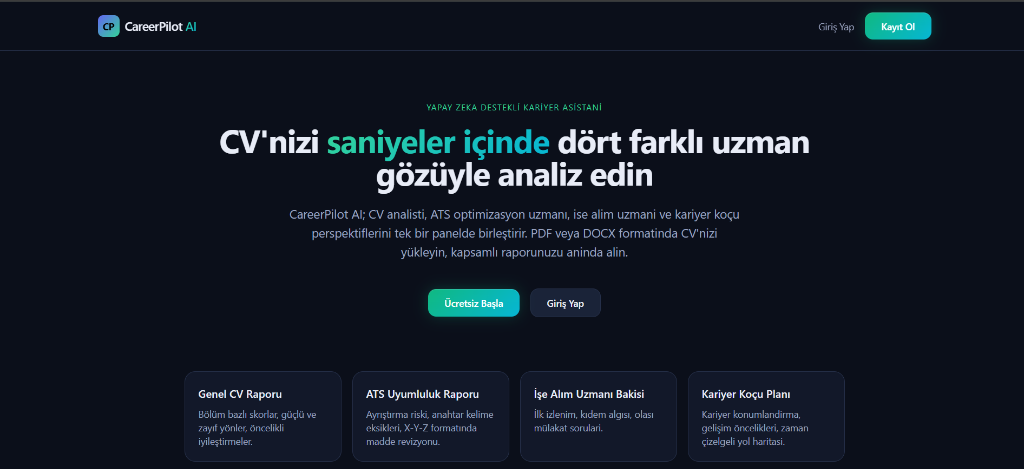
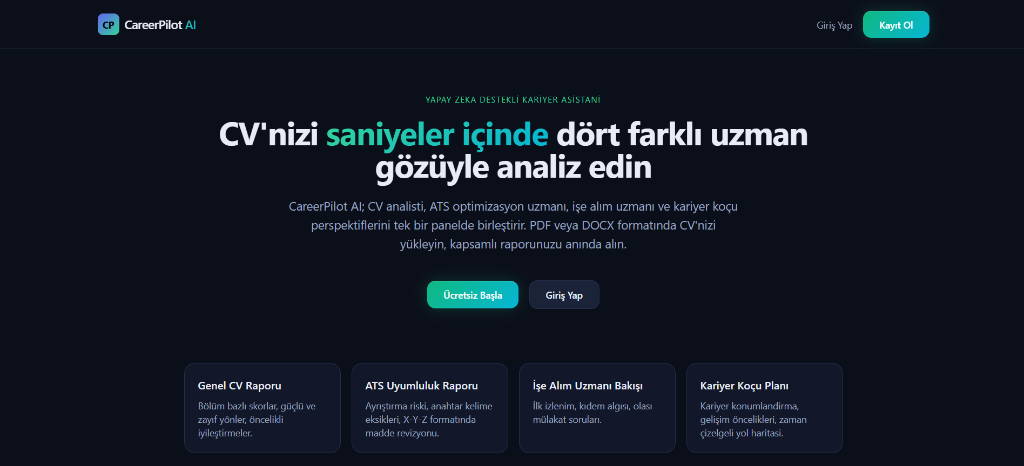
docs: fix typos and update landing page screenshot

diff --git a/frontend/app/page.jsx b/frontend/app/page.jsx
@@ -13,9 +13,9 @@ export default function HomePage() {
           dört farklı uzman gözüyle analiz edin
         </h1>
         <p className="text-[var(--cp-text-dim)] text-lg max-w-2xl mx-auto mb-10">
-          CareerPilot AI; CV analisti, ATS optimizasyon uzmanı, ise alim
-          uzmani ve kariyer koçu perspektiflerini tek bir panelde birleştirir.
-          PDF veya DOCX formatinda CV'nizi yükleyin, kapsamlı raporunuzu aninda alin.
+          CareerPilot AI; CV analisti, ATS optimizasyon uzmanı, işe alım
+          uzmanı ve kariyer koçu perspektiflerini tek bir panelde birleştirir.
+          PDF veya DOCX formatında CV'nizi yükleyin, kapsamlı raporunuzu anında alın.
         </p>
         <div className="flex items-center justify-center gap-4">
           <a
@@ -43,8 +43,8 @@ export default function HomePage() {
               desc: "Ayrıştırma riski, anahtar kelime eksikleri, X-Y-Z formatında madde revizyonu.",
             },
             {
-              title: "İşe Alım Uzmanı Bakisi",
-              desc: "İlk izlenim, kıdem algısı, olası mülakat sorulari.",
+              title: "İşe Alım Uzmanı Bakışı",
+              desc: "İlk izlenim, kıdem algısı, olası mülakat soruları.",
             },
             {
               title: "Kariyer Koçu Planı",